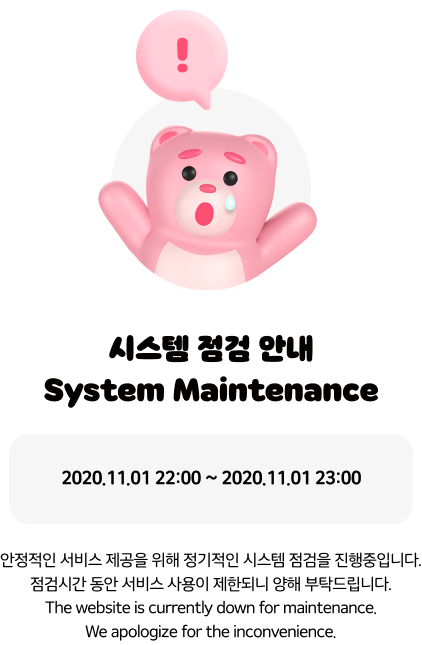
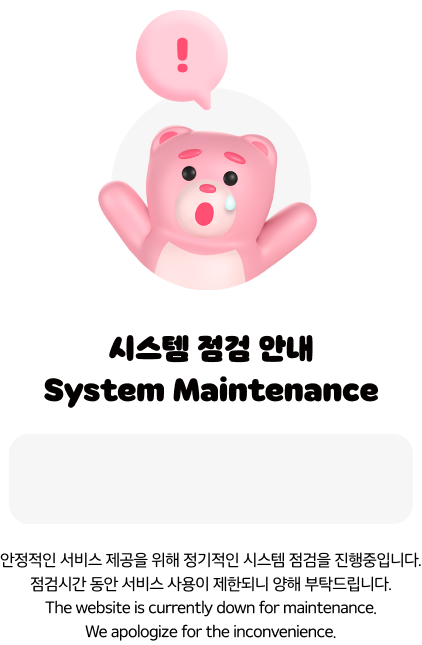
시스템점검 페이지 작업

Changed region(s): [[0.154, 0.7132, 0.8626, 0.7752]]

diff --git a/pages/systemMaintenance.vue b/pages/systemMaintenance.vue
@@ -1,12 +1,17 @@
 <template>
   <div id="errorWrapper">
     <span class="img-text">
-       <img v-if="$mq === 'pc'"
-            src="@/assets/images/main/img_error_belly02.png"
-       />
-       <img v-else
-            src="@/assets/m_images/main/img_error_belly02.png"
-       />
+      <div class="txt-wrap">
+         <img v-if="$mq === 'pc'"
+              src="@/assets/images/main/img_error_belly02.png"
+         />
+         <img v-else
+              src="@/assets/m_images/main/img_error_belly02.png"
+         />
+         <p class="txt">
+          2020.11.01 22:00 ~ 2020.11.03 22:00
+         </p>
+      </div>
     </span>
   </div>
 </template>
@@ -23,11 +28,15 @@ export default {
   #errorWrapper {
     display: flex;
     justify-content: center;
-    padding: 0 30px;
+    padding: 0 20px;
     .img-text {
-      display: inline-block;
       width: 100%;
-      margin: 60px 0 0;
+      margin-top: 60px;
+      .txt {
+        font-size: 4.3vw;
+        top: 72.9%;
+        left: 9.5%;
+      }
     }
   }
 }
@@ -37,21 +46,32 @@ export default {
   height: 100vh;
   display: flex;
   align-content: center;
+  .txt-wrap {
+    position: relative;
+  }
   .img-text {
     display: inline-block;
-    width: 21%;
+    //width: 21%;
     max-width: 715px;
     margin: auto;
     img {
       width: 100%;
     }
+    .txt {
+      position: absolute;
+      width: 100%;
+      font-size: 18px;
+      font-weight: bold;
+      top: 72.9%;
+      left: 14%;
+    }
   }
 }
-@media screen and (max-width: 768px) {
+/*@media screen and (max-width: 768px) {
   #errorWrapper {
     .img-text {
       width: 40%;
     }
   }
-}
+}*/
 </style>

diff --git a/components/MobileHeader.vue b/components/MobileHeader.vue
@@ -29,7 +29,9 @@
           @click="openLang"
           :class="{ on: this.showLang }"
         >
-          {{ $store.getters.getLocale }}
+           <span class="txt">
+              {{ $store.getters.getLocale }}
+          </span>
         </button>
         <transition name="fade">
           <div class="lang-list" v-if="this.showLang">
@@ -255,6 +257,7 @@ export default {
         align-items: center;
         width: auto;
         height: 36px;
+        line-height: 47px;
         padding: 0 10px 0 15px;
         background: $white;
         border-radius: 25px;
@@ -264,6 +267,10 @@ export default {
         line-height: 1.5;
         box-sizing: border-box;
         font-weight: 700;
+        .txt {
+          display: inline-block;
+          padding-top: 2px;
+        }
         &::after {
           content: "";
           display: inline-flex;
